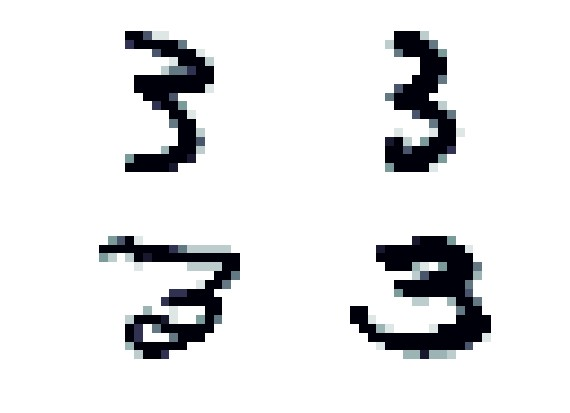
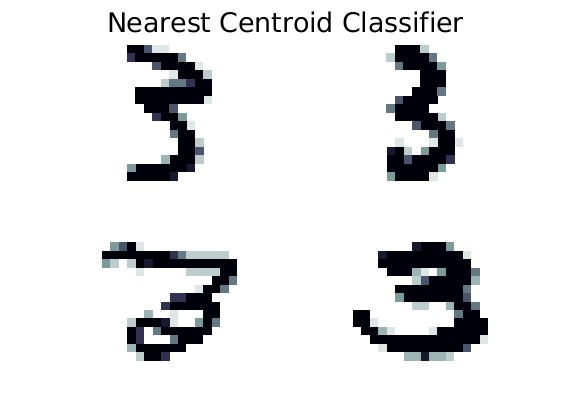
Final Version

Changed region(s): [[0.1789, 0.0291, 0.8351, 0.4358], [0.1491, 0.5521, 0.4474, 0.8717], [0.5965, 0.5521, 0.8649, 0.8717]]

diff --git a/projekt.m b/projekt.m
@@ -31,15 +31,11 @@ ncc_labels = {'NN', 'NCC'};
 
 % Bar plot
 
-figure('Name', 'Error rates');
-
-subplot(2,1,1);
+figure('Name', 'Error Rate for K Nearest Neighbour');
 bar(reordercats(categorical(nn_labels), nn_labels), nn_rates * 100);
-title('Error Rate for K Nearest Neighbour');
 
-subplot(2,1,2);
+figure('Name', 'Error Rate Nearest Neighbour and Nearest Centroid Classifier');
 bar(reordercats(categorical(ncc_labels), ncc_labels), [nn_rates(nn_best) * 100, ncc_rates * 100]);
-title('Error Rate Nearest Neighbour and Nearest Centroid Classifier');
 
 % Examples
 
@@ -56,24 +52,28 @@ ncc_correct = find(ncc_guesses==testAns);
 ncc_correct_threes = find(testAns(ncc_correct)==3);
 
 figure('Name', 'nn wrong');
+sgtitle('Nearest Neighbour', 'FontSize', 20);
 for i = 1:4
     subplot(2,2,i);
     ima(testDigits(:, :, nn_wrong(nn_wrong_threes(i))));
 end
 
 figure('Name', 'nn correct');
+sgtitle('Nearest Neighbour', 'FontSize', 20);
 for i = 1:4
     subplot(2,2,i);
     ima(testDigits(:, :, nn_correct(nn_correct_threes(i))));
 end
 
 figure('Name', 'ncc wrong');
+sgtitle('Nearest Centroid Classifier', 'FontSize', 20);
 for i = 1:4
     subplot(2,2,i);
     ima(testDigits(:, :, ncc_wrong(ncc_wrong_threes(i))));
 end
 
 figure('Name', 'ncc correct');
+sgtitle('Nearest Centroid Classifier', 'FontSize', 20);
 for i = 1:4
     subplot(2,2,i);
     ima(testDigits(:, :, ncc_correct(ncc_correct_threes(i))));
